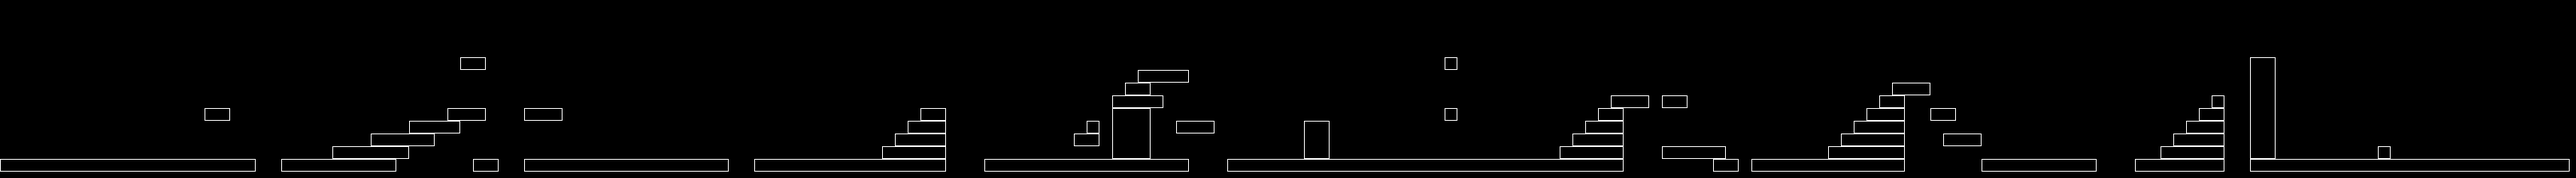
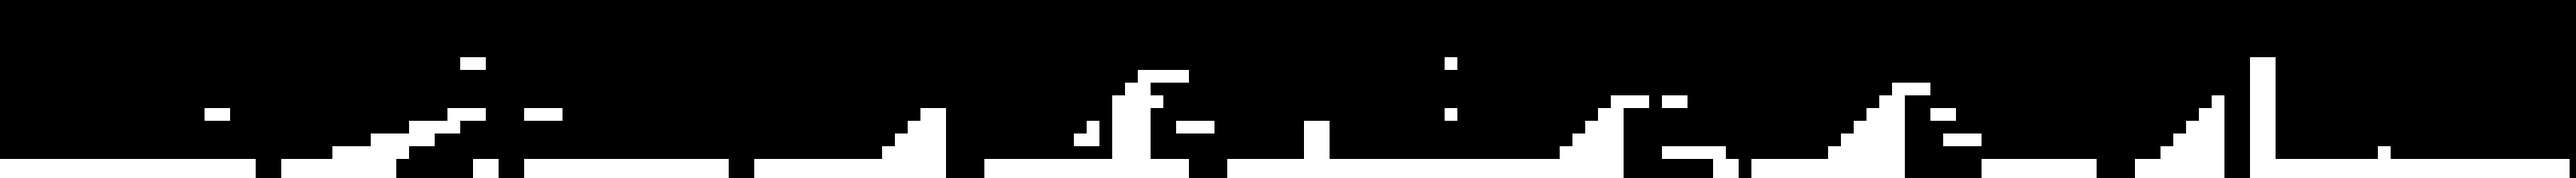
Add lakitu

diff --git a/gamedifficulty/Processing.py b/gamedifficulty/Processing.py
@@ -96,6 +96,8 @@ def CreateDisplacementTexture(ennemyType: EnemyType, detections: list[(int, int,
         return CreateBulletBillDisplacementTexture(detections, collisionMask)
     if ennemyType == EnemyType.FLYING_FISH:
         return CreateFlyingFishDisplacementTexture(detections, collisionMask)
+    if ennemyType == EnemyType.LAKITU:
+        return CreateLakituDisplacementTexture(detections, collisionMask)
 
     return np.zeros(collisionMask.shape, dtype=np.uint8)
 
@@ -244,6 +246,28 @@ def CreateFlyingFishDisplacementTexture(detections: list[(int, int, int, int)], 
             result[top:bottom, currX:currX + sizeX] = 1
 
     return result
+
+
+def CreateLakituDisplacementTexture(detections: list[(int, int, int, int)], collisionMask: cv.Mat[cv.CV_8U]) -> cv.Mat[cv.CV_8U]:
+    """
+    Lakitu specific implementation of CreateDisplacementTexture.
+    Lakitu can attack from almost anywhere except directly above him,
+    so the entire level becomes dangerous except the vertical zone above each Lakitu.
+    """
+    result = np.zeros(collisionMask.shape, dtype=np.uint8)
+    if not detections:
+        return result
+
+    result[:, :] = 1
+    height, width = collisionMask.shape
+
+    for (y, x, sizeY, sizeX) in detections:
+        safe_y_end = max(0, y)
+        if safe_y_end > 0:
+            result[0:safe_y_end, :] = 0
+
+    return result
+
 
 def CreatePiranaPlantDisplacementTexture(detections: list[(int, int, int, int)], collisionMask: cv.Mat[cv.CV_8U]) -> \
 cv.Mat[cv.CV_8U]:

diff --git a/main.py b/main.py
@@ -12,7 +12,7 @@ import matplotlib.pyplot as plt
 
 # Load the level image
 # level = "Niveau_6_3"
-level = "Niveau_7_3"
+level = "Niveau_6_1"
 levelImage = cv.imread(f"ressources/{level}/level.png")
 
 # cv.imshow("Level", levelImage)
